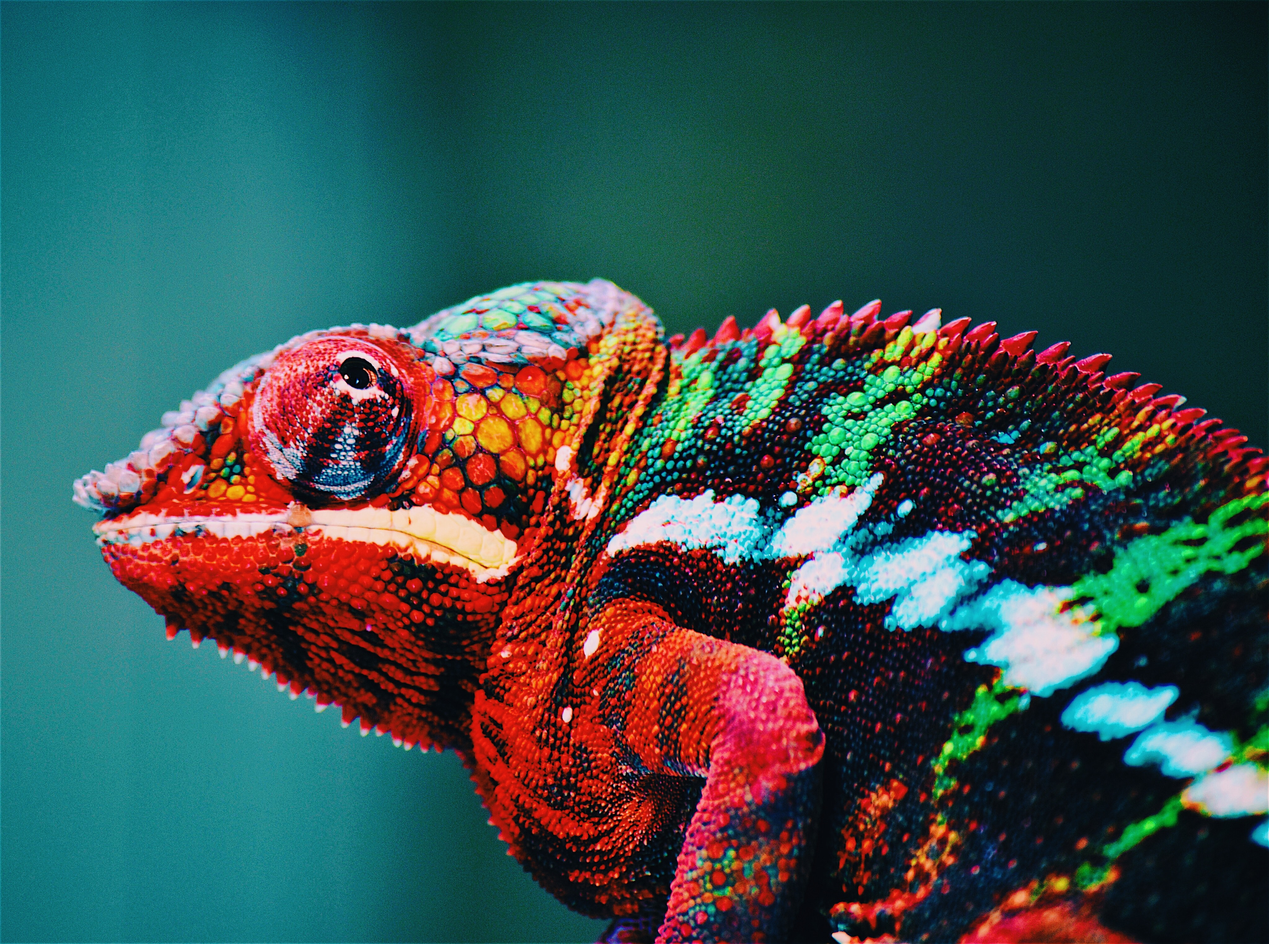
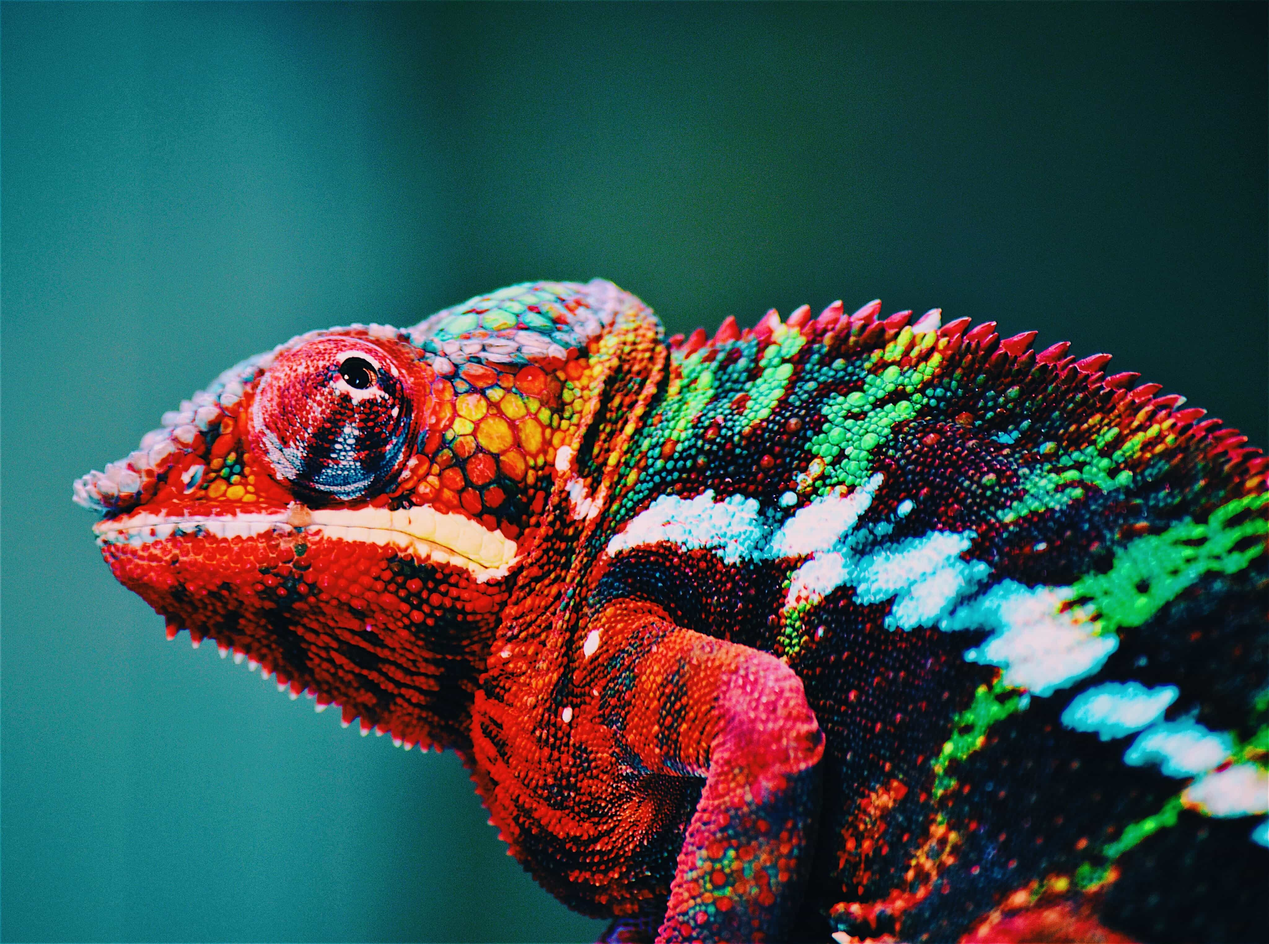
optimizando imagenes, agregando seccion others

diff --git a/css/app.css b/css/app.css
@@ -1,1 +1,1 @@
-@import"https://fonts.googleapis.com/css2?family=DM+Serif+Display:ital@0;1&display=swap";*{margin:0;padding:0}a{text-decoration:none;color:#000}.header{display:flex;justify-content:space-between;align-items:center;flex-flow:row nowrap;padding:1em 2em;position:absolute;width:calc(100% - 4em)}.header__text{text-transform:uppercase;font-weight:lighter}.header__nav{display:flex;gap:2em;box-shadow:0 0 4px #bdbcbc,0 0 10px #929090;border-radius:2em;padding:.5em 1em}.header__enlace::after{content:"";display:block;width:100%;height:2px;background-color:#bb2525;clip-path:polygon(49% 0, 49% 0, 48% 100%, 48% 100%);transition:clip-path .5s}.header__enlace:hover::after{clip-path:polygon(0 0, 100% 0, 100% 100%, 0 100%)}body{font-family:"DM Serif Display",serif;min-height:100vh}.main{width:100%}.home{display:flex;justify-content:center;align-items:center;flex-flow:column nowrap;width:100%;height:100vh}.home__contText{transform:translateY(-5em)}.home__h1{font-size:5em;font-weight:lighter}.home__contSpan{display:flex;justify-content:center;align-items:center;flex-flow:row nowrap;gap:1.5em;font-size:1.3em}.home__span{border-bottom:2px solid #bb2525}.home__train{position:absolute;bottom:2em;width:100%;overflow-x:hidden}@keyframes train{0%{transform:0}100%{transform:translateX(-50%)}}.home__train-wrapper{display:flex;justify-content:center;align-items:center;flex-flow:row nowrap;width:200%;gap:1em;animation:train 10s infinite linear}.home__train-cont{width:calc(50% - 1em);display:flex;justify-content:space-between;align-items:center;flex-flow:row nowrap;gap:1em}.home__img{height:12em;width:100%;background-color:#90ee90;pointer-events:none}.scenery{text-align:center;display:flex;justify-content:none;align-items:center;flex-flow:column nowrap}.scenery__title{font-size:3em;font-weight:lighter}.scenery__contImg{position:relative;width:60%}.scenery__contImg-img{width:100%;height:calc(100vh - 6em);object-fit:cover;filter:grayscale(1);transition:filter 2s,opacity 2s}.scenery__contImg-img:first-child{margin:2em 0}.scenery__img-reduced-1{position:absolute;left:0;top:4em;transform:translateX(-50%);opacity:0;width:350px;height:200px}.scenery__img-reduced-2{position:absolute;right:0;bottom:4.5em;transform:translateX(50%);opacity:0;width:350px;height:200px}.animals{display:flex;justify-content:none;align-items:center;flex-flow:column nowrap}.animals__title{font-size:3em;font-weight:lighter}.animals__img{position:sticky;bottom:0;width:70%;height:30em}.animals__img-1{z-index:5}.animals__img-2{z-index:4;transform:translate(4em, 4em)}.animals__img-3{z-index:3;transform:translate(-4em, 4em)}.animals__img-4{z-index:2;transform:translate(8em, 8em)}.animals__img-5{z-index:1}/*# sourceMappingURL=app.css.map */
+@import"https://fonts.googleapis.com/css2?family=DM+Serif+Display:ital@0;1&display=swap";*{margin:0;padding:0}a{text-decoration:none;color:#000}.header{display:flex;justify-content:space-between;align-items:center;flex-flow:row nowrap;padding:1em 2em;position:absolute;width:calc(100% - 4em)}.header__text{text-transform:uppercase;font-weight:lighter}.header__nav{display:flex;gap:2em;box-shadow:0 0 4px #bdbcbc,0 0 10px #929090;border-radius:2em;padding:.5em 1em}.header__enlace::after{content:"";display:block;width:100%;height:2px;background-color:#bb2525;clip-path:polygon(49% 0, 49% 0, 48% 100%, 48% 100%);transition:clip-path .5s}.header__enlace:hover::after{clip-path:polygon(0 0, 100% 0, 100% 100%, 0 100%)}body{font-family:"DM Serif Display",serif;min-height:100vh}.main{width:100%}.home{display:flex;justify-content:center;align-items:center;flex-flow:column nowrap;width:100%;height:100vh}.home__contText{transform:translateY(-5em)}.home__h1{font-size:5em;font-weight:lighter}.home__contSpan{display:flex;justify-content:center;align-items:center;flex-flow:row nowrap;gap:1.5em;font-size:1.3em}.home__span{border-bottom:2px solid #bb2525}.home__train{position:absolute;bottom:2em;width:100%;overflow-x:hidden}@keyframes train{0%{transform:0}100%{transform:translateX(-50%)}}.home__train-wrapper{display:flex;justify-content:center;align-items:center;flex-flow:row nowrap;width:200%;gap:1em;animation:train 10s infinite linear}.home__train-cont{width:calc(50% - 1em);display:flex;justify-content:space-between;align-items:center;flex-flow:row nowrap;gap:1em}.home__img{height:12em;width:100%;background-color:#90ee90;pointer-events:none}.scenery{text-align:center;background-color:#000;display:flex;justify-content:none;align-items:center;flex-flow:column nowrap}.scenery__title{font-size:10em;font-weight:lighter;position:sticky;color:#fff;top:0}.scenery__contImg{position:relative;width:60%}.scenery__contImg-img{width:100%;height:calc(100vh - 6em);object-fit:cover;filter:grayscale(1);cursor:none;transition:filter 2s,opacity 2s,transform 1s}.scenery__contImg-img:first-child{margin:2em 0;margin-bottom:8em}.scenery__contImg-img:hover{transform:scale(1.2)}.scenery__img-reduced-1{position:absolute;left:0;top:4em;transform:translateX(-50%);opacity:0;width:350px;height:200px}.scenery__img-reduced-2{position:absolute;right:0;bottom:4.5em;transform:translateX(50%);opacity:0;width:350px;height:200px}.animals{text-align:center}.animals__title{font-size:10em;font-weight:lighter;margin-bottom:.5em}.animals__contPictures{display:flex;justify-content:none;align-items:center;flex-flow:column nowrap}.animals__img{position:sticky;bottom:0;width:70%;height:30em;cursor:none}.animals__img-1{z-index:5}.animals__img-2{z-index:4;transform:translate(4em, 4em)}.animals__img-3{z-index:3;transform:translate(-4em, 4em)}.animals__img-4{z-index:2;transform:translate(8em, 8em)}.animals__img-5{z-index:1}.others{display:grid;grid-template-columns:repeat(16, 1fr);grid-template-rows:100vh 100vh 60vh 100vh;margin-top:5em;color:#fff;position:relative}.others__text{font-size:4em;position:absolute;top:1em;text-transform:capitalize;right:1em;width:50%;text-align:end}.others__contImg{background-size:cover;background-position:center center;cursor:none}.others__contImg-1{grid-column:1/17;grid-row:1;background-color:#add8e6;background-image:url("/assets/others/others1.jpg");justify-items:center;align-content:center}.others__contImg-2{grid-column:1/9;grid-row:2;background-image:url("/assets/others/others2.jpg")}.others__contImg-3{grid-column:9/17;grid-row:2;background-attachment:fixed;background-image:url("/assets/others/others3.jpg")}.others__contImg-4{grid-column:1/10;grid-row:3;background-attachment:fixed;background-image:url("/assets/others/others4.jpg")}.others__contImg-5{background-color:#000;color:#fff;grid-column:10/17;grid-row:3;text-transform:capitalize;font-size:4em;text-align:center;display:flex;align-items:center}.others__contImg-6{grid-column:1/17;grid-row:4;background-image:url("/assets/others/others5.jpg");background-attachment:fixed}.footer{text-align:center;display:flex;justify-content:center;align-items:center;flex-flow:row nowrap;background-color:#000;color:#fff;height:4em}.cursor{--x: 0;--y: 0;z-index:6;width:60px;height:60px;border-radius:50%;display:flex;justify-content:center;align-items:center;opacity:0;position:fixed;left:-30px;top:-30px;transform:translate(var(--x), var(--y)) translateZ(0);pointer-events:none;background-color:#fcfcfc;mix-blend-mode:difference}.cursor__img{width:25px;filter:invert(27%) sepia(76%) saturate(2216%) hue-rotate(343deg) brightness(75%) contrast(95%)}/*# sourceMappingURL=app.css.map */

diff --git a/index.html b/index.html
@@ -8,6 +8,9 @@
     <link rel="stylesheet" href="./css/app.css">
 </head>
 <body>
+    <div class="cursor">
+        <img src="./assets/arrow-up-right.svg" alt="" class="cursor__img">
+    </div>
     <header class="header">
         <h2 class="header__text">fashion</h2>
         <nav class="header__nav">
@@ -55,7 +58,7 @@
         </section>
 
         <section class="scenery">
-            <h2 class="scenery__title">Scenery</h2>
+            <h2 class="scenery__title">Enjoy The Scenery</h2>
             <div class="scenery__contImg">
                 <img class="scenery__contImg-img" src="./assets/scenery/paisaje1.jpg" alt="paisaje" loading="lazy">
                 <img class="scenery__contImg-img scenery__img-reduced-1" src="./assets/scenery/paisaje2.jpg" alt="paisaje" loading="lazy">
@@ -69,14 +72,32 @@
         </section>
 
         <section class="animals">
-            <h2 class="animals__title">Animals</h2>
-            <img class="animals__img animals__img-1" src="./assets/animals/animal1.jpg" alt="animales">
-            <img class="animals__img animals__img-2" src="./assets/animals/animal2.jpg" alt="animales">
-            <img class="animals__img animals__img-3" src="./assets/animals/animal3.jpg" alt="animales">
-            <img class="animals__img animals__img-4" src="./assets/animals/animal4.jpg" alt="animales">
-            <img class="animals__img animals__img-5" src="./assets/animals/animal5.jpg" alt="animales">
+            <h2 class="animals__title">Enjoy The Animals</h2>
+            <div class="animals__contPictures">
+                <img class="animals__img animals__img-1" src="./assets/animals/animal1.jpg" alt="animales" loading="lazy">
+                <img class="animals__img animals__img-2" src="./assets/animals/animal2.jpg" alt="animales" loading="lazy">
+                <img class="animals__img animals__img-3" src="./assets/animals/animal3.jpg" alt="animales" loading="lazy">
+                <img class="animals__img animals__img-4" src="./assets/animals/animal4.jpg" alt="animales" loading="lazy">
+                <img class="animals__img animals__img-5" src="./assets/animals/animal5.jpg" alt="animales" loading="lazy">
+            </div>
+        </section>
+
+        <section class="others">
+            <div class="others__contImg-1 others__contImg">
+                <span class="others__text">enjoy high-quality photos that carry beautiful moments with them</span>
+            </div>
+            <div class="others__contImg-2 others__contImg"></div>
+            <div class="others__contImg-3 others__contImg"></div>
+            <div class="others__contImg-4 others__contImg"></div>
+            <div class="others__contImg-5 others__contImg">enjoy high quality and sharp photos</div>
+            <div class="others__contImg-6 others__contImg"></div>
         </section>
     </main>
+
+    <footer class="footer">
+        <span>@All rights reserverd 2022 <br> Jefferson Silva Quinto</span>
+    </footer>
+
     <script src="./js/app.js"></script>
 </body>
 </html>

diff --git a/scss/components/_others.scss b/scss/components/_others.scss
@@ -1,0 +1,70 @@
+.others {
+    display: grid;
+    grid-template-columns: repeat(16, 1fr);
+    grid-template-rows: 100vh 100vh 60vh 100vh;
+    margin-top: 5em;
+    color: white;
+    position: relative;
+
+    &__text {
+        font-size: 4em;
+        position: absolute; 
+        top: 1em;
+        text-transform: capitalize;
+        right: 1em;
+        width: 50%;
+        text-align: end
+    }
+
+    &__contImg {
+        background-size: cover;
+        background-position: center center;
+        cursor: none;
+    }
+    
+    &__contImg-1 {
+        grid-column: 1/17;
+        grid-row: 1;
+        // background-attachment: fixed;        
+        background-color: lightblue;     
+        background-image: url("/assets/others/others1.jpg");
+        justify-items: center;
+        align-content: center;
+
+    }
+    &__contImg-2 {
+        grid-column: 1/9;
+        grid-row: 2;
+        // background-attachment: fixed;    
+        background-image: url("/assets/others/others2.jpg")
+    }
+    &__contImg-3 {
+        grid-column: 9/17;
+        grid-row: 2;
+        background-attachment: fixed;    
+        background-image: url("/assets/others/others3.jpg")
+    }
+    &__contImg-4 {
+        grid-column: 1/10;
+        grid-row: 3;
+        background-attachment: fixed;    
+        background-image: url("/assets/others/others4.jpg");
+    }
+    &__contImg-5 {
+        background-color: black;
+        color: white;
+        grid-column: 10/17;
+        grid-row: 3;
+        text-transform: capitalize;
+        font-size: 4em;
+        text-align: center;
+        display: flex;
+        align-items: center;
+    }
+    &__contImg-6 {
+        grid-column: 1/17;
+        grid-row: 4;
+        background-image: url("/assets/others/others5.jpg");
+        background-attachment: fixed;    
+    }
+}

diff --git a/js/app.js b/js/app.js
@@ -1,7 +1,51 @@
 const img = document.querySelectorAll(".scenery__contImg-img");
 const imgReduced1 = document.querySelectorAll(".scenery__img-reduced-1");
 const imgReduced2 = document.querySelectorAll(".scenery__img-reduced-2");
+const sceneryImg = document.querySelectorAll(".scenery__contImg-img"); 
+const cursor = document.querySelector(".cursor");
+const animalsImg = document.querySelectorAll(".animals__img");
+const othersImg = document.querySelectorAll(".others__contImg");
 
+
+othersImg.forEach(img =>{
+    img.addEventListener("mousemove", (event)=>{
+        cursor.style.setProperty("--x", `${event.clientX}px`);
+        cursor.style.setProperty("--y", `${event.clientY}px`);
+        cursor.style.opacity = "1"
+    });
+
+    img.addEventListener("mouseout", ()=>{
+        cursor.style.opacity = "0";
+    });
+});
+
+animalsImg.forEach(img =>{
+    img.addEventListener("mousemove", (event)=>{
+        cursor.style.setProperty("--x", `${event.clientX}px`);
+        cursor.style.setProperty("--y", `${event.clientY}px`);
+        cursor.style.opacity = "1"
+    });
+
+    img.addEventListener("mouseout", ()=>{
+        cursor.style.opacity = "0";
+    });
+});
+
+sceneryImg.forEach(scener=>{
+    scener.addEventListener("mousemove", (event)=>{
+        cursor.style.setProperty("--x", `${event.clientX}px`);
+        cursor.style.setProperty("--y", `${event.clientY}px`);
+        cursor.style.opacity = "1"
+    });
+
+    scener.addEventListener("mouseout", ()=>{
+        cursor.style.opacity = "0";
+    });
+});
+
+
+
+//efecto grayscale en las imagenes de la sección scenery
 function callback(entries) {
     entries.forEach((entry)=>{
         if(entry.isIntersecting == true){

diff --git a/scss/components/_scenery.scss b/scss/components/_scenery.scss
@@ -1,10 +1,14 @@
 .scenery {
     text-align: center;
+    background-color: black;
     @include flexbox(none, center, column, nowrap);
 
     &__title { 
-        font-size:3em; 
+        font-size: 10em; 
         font-weight: lighter;
+        position: sticky;
+        color: white;
+        top: 0;
     }
     &__contImg {
         position: relative;
@@ -16,10 +20,15 @@
             height: calc(100vh - 6em);
             object-fit: cover;
             filter: grayscale(1);
-            transition: filter 2s, opacity 2s;
-           
+            cursor: none;
+            transition: filter 2s, opacity 2s, transform 1s;
+
             &:first-child {
                 margin: 2em 0;
+                margin-bottom: 8em; 
+            }
+            &:hover {
+                transform: scale(1.2)
             }
         }
     }

diff --git a/scss/components/_cursor.scss b/scss/components/_cursor.scss
@@ -1,0 +1,25 @@
+.cursor {
+    --x: 0;
+    --y: 0;
+
+    z-index: 6;
+    width: 60px;
+    height: 60px;
+    border-radius: 50%;
+    display: flex;
+    justify-content: center;
+    align-items: center;
+    opacity: 0;
+    position: fixed;
+    left: -30px;
+    top: -30px;
+    transform: translate(var(--x), var(--y)) translateZ(0);
+    pointer-events: none;
+    background-color: rgba(252,252,252, 1);
+    mix-blend-mode: difference;
+
+    &__img {
+        width: 25px;
+        filter: invert(27%) sepia(76%) saturate(2216%) hue-rotate(343deg) brightness(75%) contrast(95%);
+    }
+}

diff --git a/scss/components/_animals.scss b/scss/components/_animals.scss
@@ -1,15 +1,20 @@
 .animals {
-    @include flexbox(none, center, column, nowrap);
+    text-align: center;
 
     &__title {
-        font-size: 3em;
+        font-size: 10em;
         font-weight: lighter;
+        margin-bottom: .5em;
+    }
+    &__contPictures {
+        @include flexbox(none, center, column, nowrap);
     }
     &__img {
         position: sticky;
         bottom: 0;
         width: 70%;
         height: 30em;
+        cursor: none;
     
         &-1 {
             z-index: 5;

diff --git a/scss/app.scss b/scss/app.scss
@@ -1,3 +1,4 @@
 @import "./partials/mixins", "./partials/reset";
-@import "./components/header", "./components/body", "./components/main";
-@import "./components/scenery", "./components/animals";
+@import "./components/header", "./components/body", "./components/home";
+@import "./components/scenery", "./components/animals", "./components/others";
+@import "./components/footer", "./components/cursor";

diff --git a/scss/components/_footer.scss b/scss/components/_footer.scss
@@ -1,0 +1,7 @@
+.footer {
+    text-align: center;
+    @include flexbox(center, center, row, nowrap);
+    background-color: black;
+    color: white;
+    height: 4em;
+}
